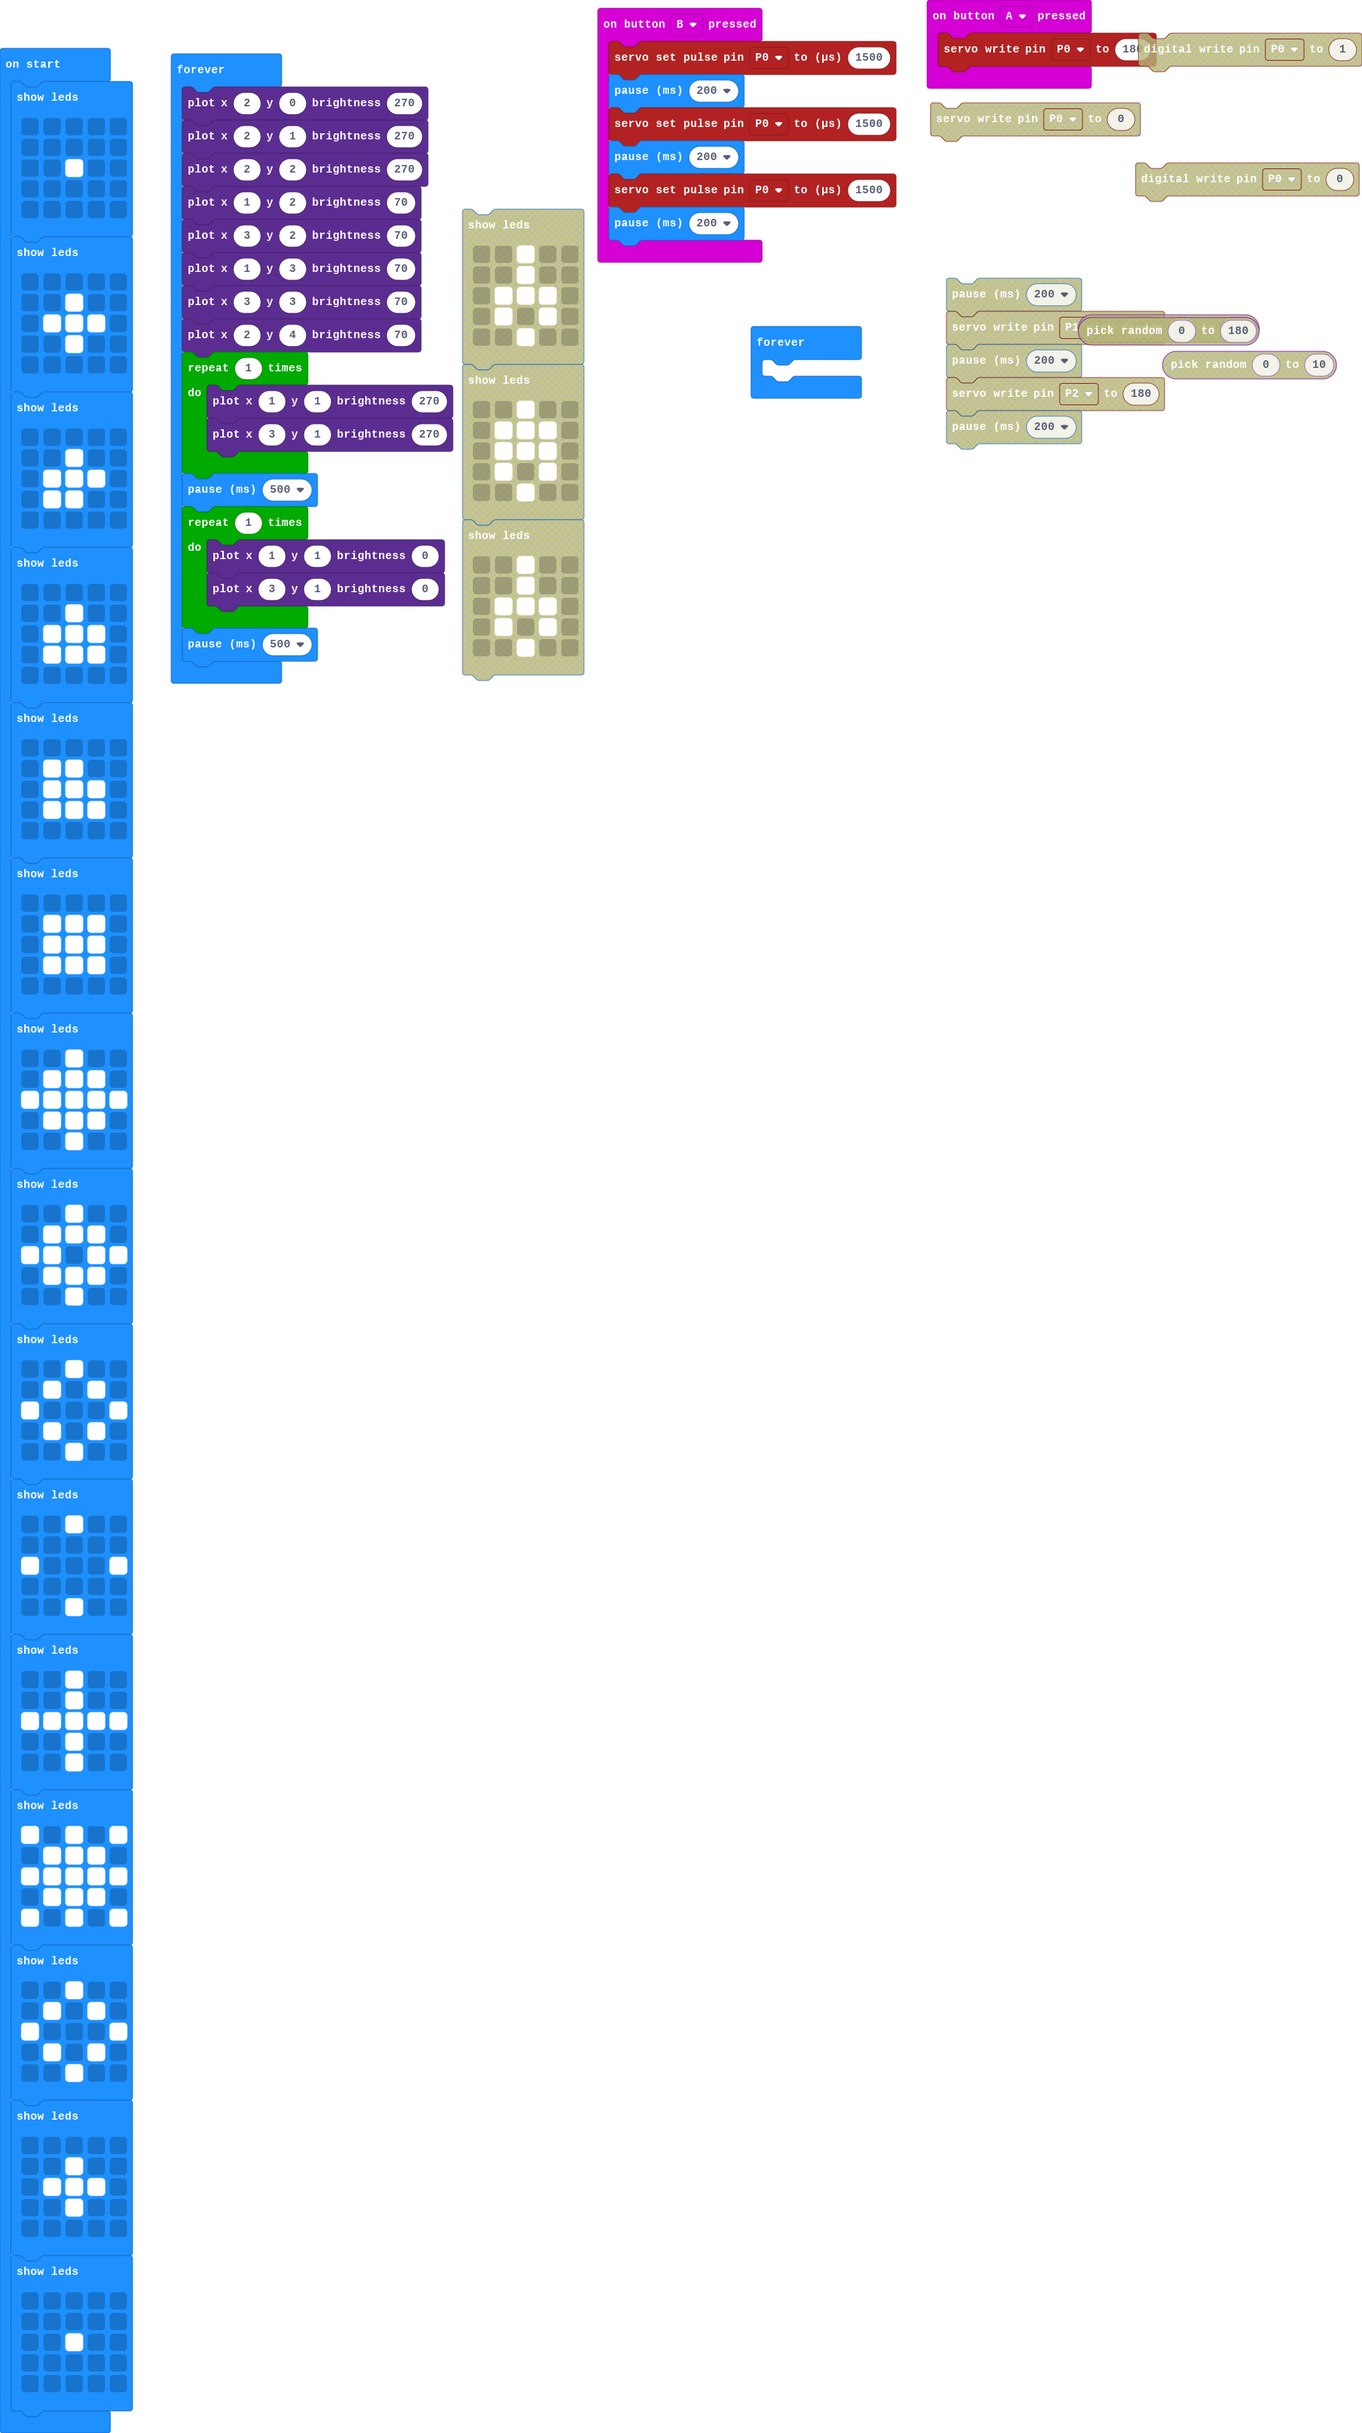
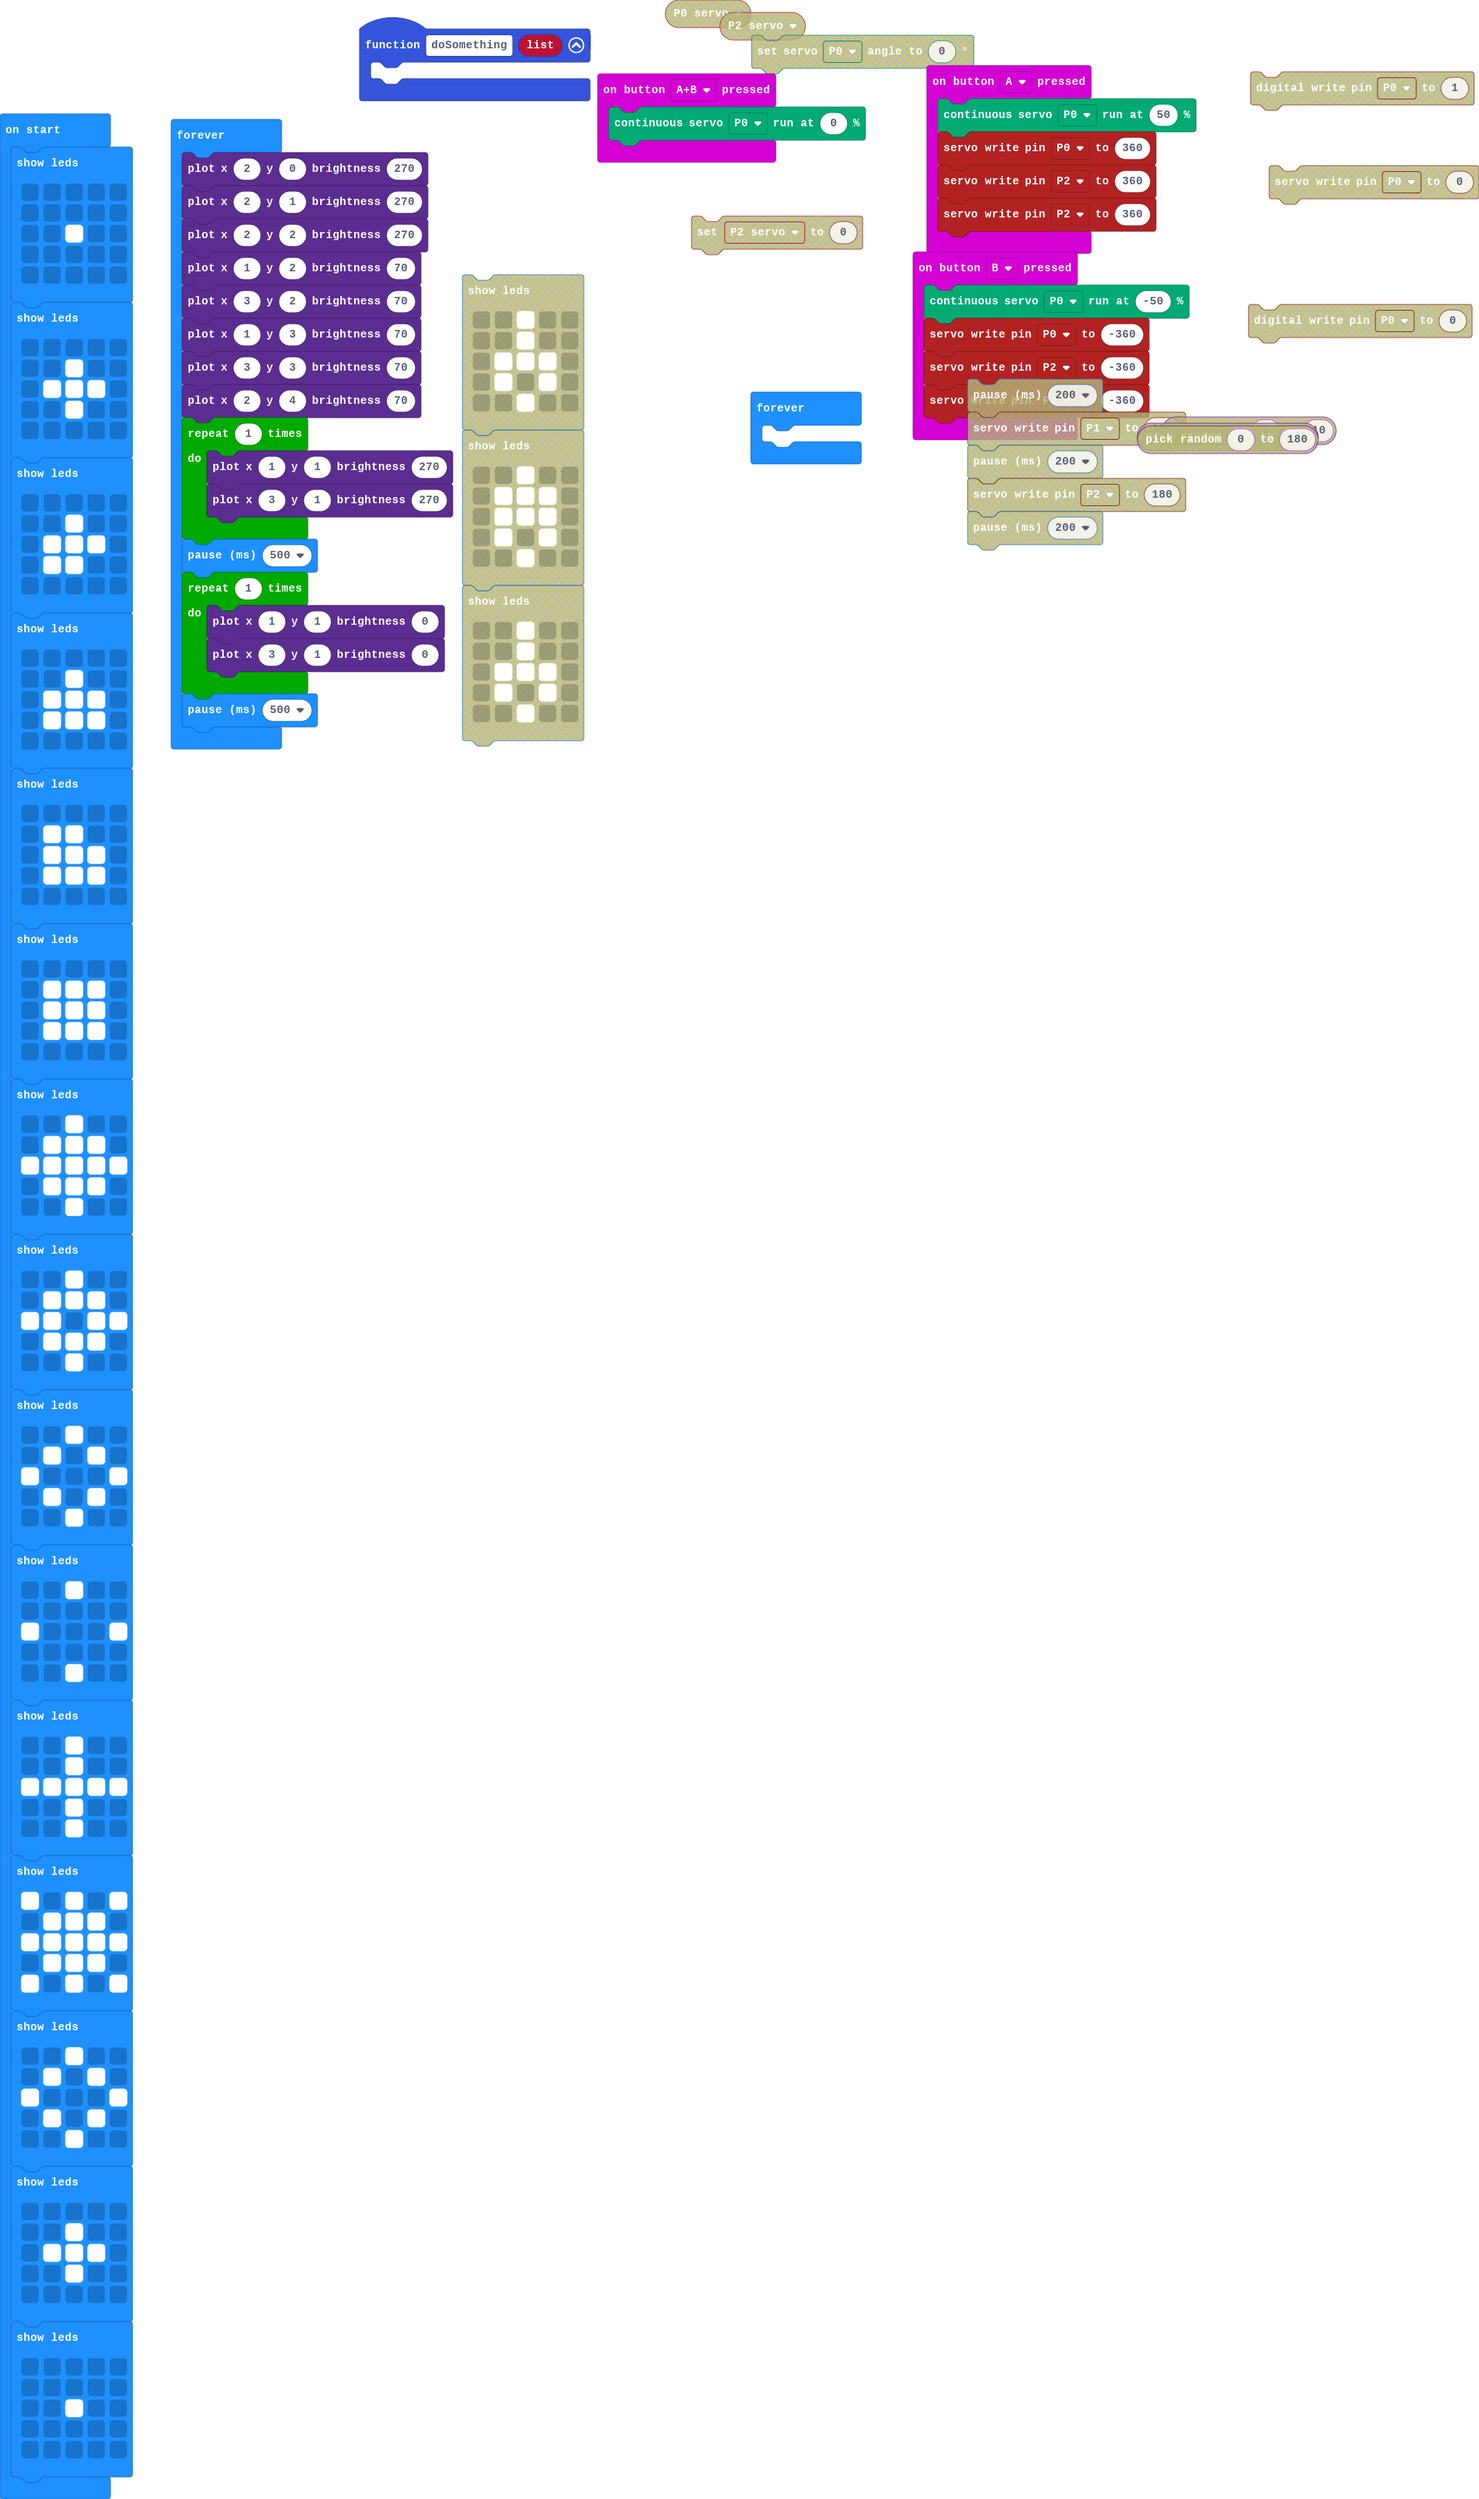
Update main.blocks, main.ts

Changed region(s): [[0.0, 0.0, 1.0, 1.0]]

diff --git a/main.ts b/main.ts
@@ -1,13 +1,20 @@
 input.onButtonPressed(Button.A, function () {
-    pins.servoWritePin(AnalogPin.P0, 180)
+    servos.P0.run(50)
+    pins.servoWritePin(AnalogPin.P0, 360)
+    pins.servoWritePin(AnalogPin.P2, 360)
+    pins.servoWritePin(AnalogPin.P2, 360)
+})
+function doSomething (list: any[]) {
+	
+}
+input.onButtonPressed(Button.AB, function () {
+    servos.P0.run(0)
 })
 input.onButtonPressed(Button.B, function () {
-    pins.servoSetPulse(AnalogPin.P0, 1500)
-    basic.pause(200)
-    pins.servoSetPulse(AnalogPin.P0, 1500)
-    basic.pause(200)
-    pins.servoSetPulse(AnalogPin.P0, 1500)
-    basic.pause(200)
+    servos.P0.run(-50)
+    pins.servoWritePin(AnalogPin.P0, -360)
+    pins.servoWritePin(AnalogPin.P2, -360)
+    pins.servoWritePin(AnalogPin.P2, -360)
 })
 basic.showLeds(`
     . . . . .
